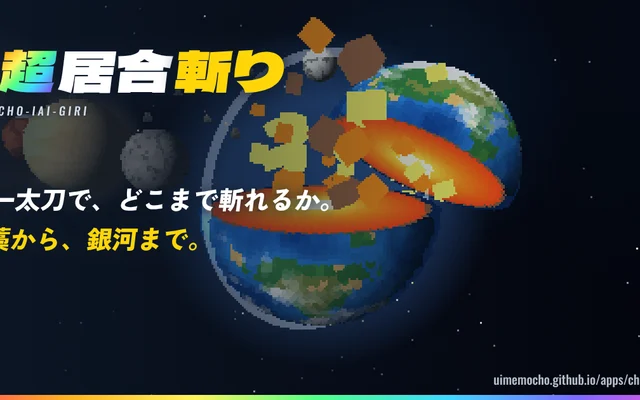
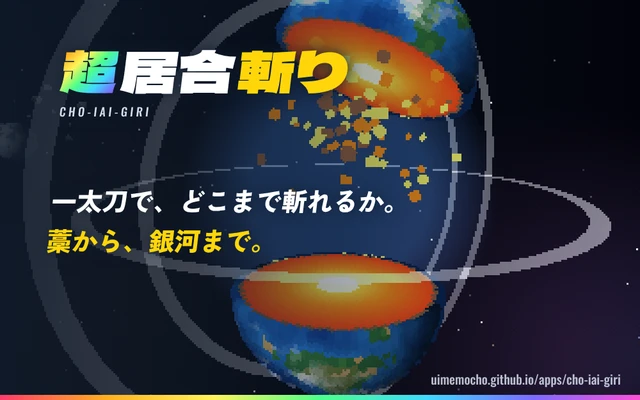
超居合斬り: 公開版のデバッグ機能を無効化、サイト用サムネを8:5で収まりよく作り直し
Claude-Session: https://claude.ai/code/session_01XJ9ANzxf9Y9Q3G5R6QxfVf

diff --git a/public/apps/cho-iai-giri/game.js b/public/apps/cho-iai-giri/game.js
@@ -2007,18 +2007,18 @@ function showResult() {
 
 // ---------- share ----------
 let shareImg = null;
-async function makeShareImage(generic) {
+async function makeShareImage(generic, CW = 1200, CH = 630) {
   try {
     const t0 = generic ? I18N.ja : tx(), r0 = lastResult; const txt = t0.name.join('') + t0.sub + '一太刀で、どこまで斬れるか。藁から、銀河まで。0123456789.,kmuimemocho.github.io/apps/cho-iai-giri' + (r0 ? r0.n + r0.u + t0.reach + t0.stages[r0.st] + t0.titles[r0.r] + RANKS[r0.r] : '');
     await Promise.all(['400 88px "Dela Gothic One"', '900 40px "Zen Kaku Gothic New"', '700 150px Oswald', '500 18px Oswald'].map(f => document.fonts.load(f, txt).catch(() => {})));
     await document.fonts.ready;
   } catch (e) {}
-  const c = document.createElement('canvas'); c.width = 1200; c.height = 630; let x = c.getContext('2d'); x.imageSmoothingEnabled = false;
-  const scn = renderLandscape(400, 210, generic ? generic : null);
-  x.filter = 'brightness(1.2) saturate(1.1)'; x.drawImage(scn, 0, 0, 1200, 630); x.filter = 'none';
-  const g = x.createLinearGradient(0, 0, 1200, 0); g.addColorStop(0, 'rgba(14,26,43,.86)'); g.addColorStop(.5, 'rgba(14,26,43,.42)'); g.addColorStop(1, 'rgba(14,26,43,0)'); x.fillStyle = g; x.fillRect(0, 0, 1200, 630);
+  const c = document.createElement('canvas'); c.width = CW; c.height = CH; let x = c.getContext('2d'); x.imageSmoothingEnabled = false;
+  const scn = renderLandscape(Math.round(CW / 3), Math.round(CH / 3), generic ? generic : null);
+  x.filter = 'brightness(1.2) saturate(1.1)'; x.drawImage(scn, 0, 0, CW, CH); x.filter = 'none';
+  const g = x.createLinearGradient(0, 0, CW, 0); g.addColorStop(0, 'rgba(14,26,43,.86)'); g.addColorStop(.5, 'rgba(14,26,43,.42)'); g.addColorStop(1, 'rgba(14,26,43,0)'); x.fillStyle = g; x.fillRect(0, 0, CW, CH);
   const t = generic ? I18N.ja : tx(), r = lastResult;
-  const base = x, tl = document.createElement('canvas'); tl.width = 1200; tl.height = 630; x = tl.getContext('2d');
+  const base = x, tl = document.createElement('canvas'); tl.width = CW; tl.height = CH; x = tl.getContext('2d');
   x.save(); x.transform(1, 0, -0.12, 1, 0, 0); x.textBaseline = 'alphabetic';
   x.font = '400 88px "Dela Gothic One"'; const w0 = x.measureText(t.name[0]).width, w1 = x.measureText(t.name[1]).width;
   const rg = x.createLinearGradient(96, 70, 96 + w0, 150); ['#ff3b6b', '#ffb020', '#fff35a', '#4dff8a', '#3fd8ff', '#7a6bff'].forEach((cc, i) => rg.addColorStop(i / 5, cc));
@@ -2035,8 +2035,8 @@ async function makeShareImage(generic) {
     x.fillText(t.titles[r.r], 190 + rw, 524); x.restore();
   }
   base.save(); base.shadowColor = 'rgba(14,26,43,.95)'; base.shadowBlur = 22; base.drawImage(tl, 0, 0); base.restore(); x = base;
-  x.font = '500 20px Oswald'; x.fillStyle = 'rgba(214,223,236,.85)'; x.textAlign = 'right'; x.fillText('uimemocho.github.io/apps/cho-iai-giri', 1170, 606);
-  const bar = x.createLinearGradient(0, 0, 1200, 0); ['#ff3b6b', '#ffb020', '#fff35a', '#4dff8a', '#3fd8ff', '#7a6bff', '#ff4fd8'].forEach((cc, i) => bar.addColorStop(i / 6, cc)); x.fillStyle = bar; x.fillRect(0, 622, 1200, 8);
+  x.font = '500 20px Oswald'; x.fillStyle = 'rgba(214,223,236,.85)'; x.textAlign = 'right'; x.fillText('uimemocho.github.io/apps/cho-iai-giri', CW - 30, CH - 24);
+  const bar = x.createLinearGradient(0, 0, CW, 0); ['#ff3b6b', '#ffb020', '#fff35a', '#4dff8a', '#3fd8ff', '#7a6bff', '#ff4fd8'].forEach((cc, i) => bar.addColorStop(i / 6, cc)); x.fillStyle = bar; x.fillRect(0, CH - 8, CW, 8);
   return new Promise(res => c.toBlob(b => res(b), 'image/png'));
 }
 function shareText() { const r = lastResult, t = tx(); return t.shareText(t.stages[r.st], `${r.n} ${r.u}`, RANKS[r.r], t.titles[r.r]); }
@@ -2081,7 +2081,8 @@ function loop(now) {
   if (DBG.on) { DBG.acc += raw; DBG.n++; if (DBG.acc > .5) { DBG.fps = Math.round(DBG.n / DBG.acc); DBG.acc = 0; DBG.n = 0; const e = $('#dFps'); if (e) e.textContent = `${DBG.fps} fps  ${tx().stages[stageOf(Math.max(rDisp, .01))]}  ${state}`; } }
   update(raw * DBG.speed); render(); requestAnimationFrame(loop);
 }
-// ---------- debug mode (?debug or tap the title logo 5 times) ----------
+// ---------- debug mode (?debug or tap the title logo 5 times); the public build sets DEBUG_BUILD = false ----------
+const DEBUG_BUILD = false;
 const DBG = { on: false, speed: 1, fps: 0, acc: 0, n: 0, taps: [] };
 function dbgOpen() {
   if (DBG.on) return; DBG.on = true;
@@ -2117,8 +2118,8 @@ function dbgGo(i, reach, ultra) {
   chaseT = 0; timeScale = 1; shownStage = -1; rDisp = SC_STAGE[i]; fol.x = -1.1; fol.y = .3; fol.z = -2.2; stT = .6; anc.x = wave.x; anc.y = wave.y; galS = wave.vert ? 1 : 0; wave.vt = wave.vert ? 1 : 0; camReset(); earthCut = false;
   camS.px = wave.x + fol.x * cs; camS.py = wave.y + fol.y * cs; camS.pz = wave.z + fol.z * cs; camS.tx = wave.x; camS.ty = wave.y; camS.tz = wave.z + 2.5 * cs;
 }
-$('.logo').addEventListener('click', () => { const t = performance.now(); DBG.taps = DBG.taps.filter(v => t - v < 2500); DBG.taps.push(t); if (DBG.taps.length >= 5) { DBG.taps = []; dbgOpen(); toast('DEBUG MODE'); } });
-if (/[?&#]debug/.test(location.search + location.hash)) setTimeout(dbgOpen, 0);
+if (DEBUG_BUILD) $('.logo').addEventListener('click', () => { const t = performance.now(); DBG.taps = DBG.taps.filter(v => t - v < 2500); DBG.taps.push(t); if (DBG.taps.length >= 5) { DBG.taps = []; dbgOpen(); toast('DEBUG MODE'); } });
+if (DEBUG_BUILD && /[?&#]debug/.test(location.search + location.hash)) setTimeout(dbgOpen, 0);
 function preloadFonts() {
   if (!document.fonts || !document.fonts.load) return;
   const t = tx(); const all = '0123456789.,AD TIMELEAPkmly→？' + t.stages.join('') + t.eras.flat().join('') + t.titles.join('') + t.name.join('') + t.cut + t.perfect + t.ultra + t.nick + t.galaxyCut + t.timeCut + t.reach + t.dist + t.ly + t.qi + t.qi2 + t.draw + t.draw2 + t.newBest + t.best;
@@ -2126,7 +2127,7 @@ function preloadFonts() {
   document.fonts.load('700 40px Oswald', all).catch(() => {}); document.fonts.load('500 40px Oswald', all).catch(() => {});
 }
 // debug hook (testing only)
-window.__cho = {
+if (DEBUG_BUILD) window.__cho = {
   fire: (p, q = 2) => { qi = q; qiUltraAt = T; qiFullAt = T; fire(p); }, go, get state() { return state; }, get scene() { return scene && scene.id; }, get reach() { return REACH; }, get rDisp() { return rDisp; }, get trans() { return trans && trans.type; },
   dcut: () => scene.deco.filter(o => o.cut).length + "/" + scene.deco.filter(o => o.dz).length + "/" + scene.deco.length,
   tri: () => { let t = 0; root.traverse(o => { if (o.isMesh && o.geometry.index) t += o.geometry.index.count / 3; if (o.isPoints) t += o.geometry.attributes.position.count; }); return t; },
@@ -2135,11 +2136,11 @@ window.__cho = {
   trace: n => { const r = []; for (let i = 0; i < n; i++) { update(1 / 60); r.push([cam.yaw, cam.pitch, cam.fov, cam.x / cs, cam.y / cs, cam.z / cs, state, trans ? 1 : 0, timeScale, scene.id, earthCut ? 1 : 0, nextIdx, +CS.th.x.toFixed(3), +CS.d.x.toFixed(3), shotK, +stT.toFixed(2), +camS.px.toFixed(2), +camS.pz.toFixed(2), +camS.tx.toFixed(2), +camS.tz.toFixed(2)]); if (state === 'result' || state === 'wide') break; } return r; },
   fdbg: () => { const o = scene.objs[nextIdx]; if (!o) return null; const ok = proj(o.x, o.cutY, o.z, tA); return [nextIdx, +FW.x.toFixed(2), +((o.z - wave.z)).toFixed(1), ok ? Math.round(tA[3]) : null, LW, +cs.toFixed(1), +waveGrow().toFixed(2), +camS.tx.toFixed(1), +o.x.toFixed(1), +cam.x.toFixed(1)]; },
   fl: () => [flight ? +flight.t.toFixed(2) : -1, nextIdx, +wave.z.toFixed(1), +wave.v.toFixed(1), scene.objs[nextIdx] ? scene.objs[nextIdx].m : '', scene.objs[nextIdx] ? +scene.objs[nextIdx].z.toFixed(1) : 0, !!orbit],
-  pause: v => { DBG.speed = v ? 0 : 1; },
+  pause: v => { DBG.speed = v ? 0 : 1; }, audio: A,
   tr: () => trans && [trans.t.toFixed(3), trans.sw, trans.done, !!trans.snapped, trans.glass && trans.glass.sh ? trans.glass.sh.length : 0, snapC.width],
   skip: t => { for (let i = 0; i < t * 60; i++) update(1 / 60); render(); }, setQi: v => { qi = v; }, buildAll: () => { while (!preDone) prebuildNext(1e15); },
   view: (id, setup) => { loadScene(SCENES.indexOf(id)); state = 'view'; if (setup) setup({ scene, cutObj, lookAt, cam, camS, upd: d => { updPieces(d); updParts(d); } }); },
-  ogp: async () => { const sv = scene; loadScene(5); const e = scene.objs[0]; power = .8; cutObj(e); for (let i = 0; i < 90; i++) { updPieces(1 / 60); updParts(1 / 60); } parts = []; slashes = []; const b = await makeShareImage(() => lookAt(e.x - 15, e.y + 9, e.z - 14, e.x + 2, e.y + 4, e.z + 3)); scene = sv; return await new Promise(r => { const fr = new FileReader(); fr.onload = () => r(fr.result); fr.readAsDataURL(b); }); }
+  ogp: async (W2, H2) => { const sv = scene; loadScene(5); const e = scene.objs[0]; power = .8; cutObj(e); for (let i = 0; i < 90; i++) { updPieces(1 / 60); updParts(1 / 60); } parts = []; slashes = []; const b = await makeShareImage(() => lookAt(e.x - 15, e.y + 9, e.z - 14, e.x + 2, e.y + 4, e.z + 3), W2 || 1200, H2 || 630); scene = sv; return await new Promise(r => { const fr = new FileReader(); fr.onload = () => r(fr.result); fr.readAsDataURL(b); }); }
 };
 
 loadScene(0);
